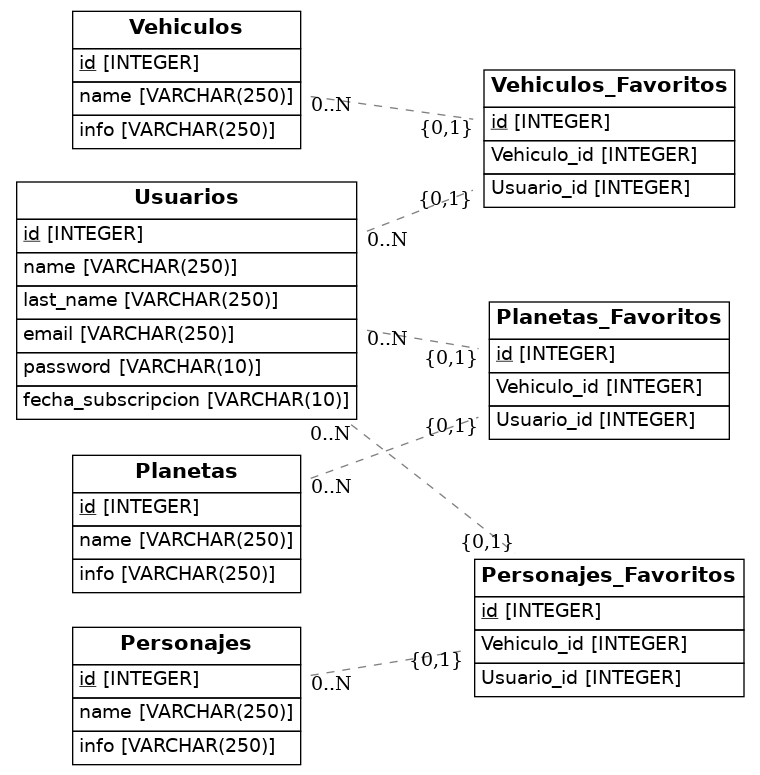
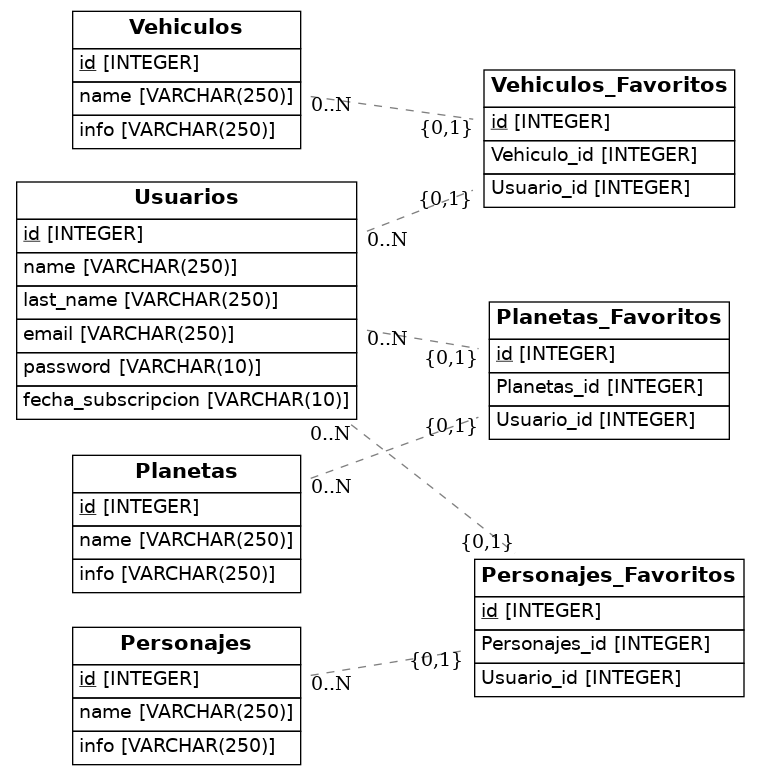
corregido

Changed region(s): [[0.6355, 0.8052, 0.9382, 0.8671], [0.6355, 0.4645, 0.9382, 0.5265]]

diff --git a/src/models.py b/src/models.py
@@ -42,18 +42,24 @@ class Vehiculos_Favoritos(Base):
     id = Column(Integer, primary_key=True)
     Vehiculo_id = Column(Integer, ForeignKey('Vehiculos.id'))
     Usuario_id = Column(Integer, ForeignKey('Usuarios.id'))
+    vehiculo = relationship(Vehiculos)
+    usuario = relationship(Usuarios)
 
 class Planetas_Favoritos(Base):
     __tablename__ = 'Planetas_Favoritos'
     id = Column(Integer, primary_key=True)
-    Vehiculo_id = Column(Integer, ForeignKey('Planetas.id'))
+    Planetas_id = Column(Integer, ForeignKey('Planetas.id'))
     Usuario_id = Column(Integer, ForeignKey('Usuarios.id'))
+    planeta = relationship(Planetas)
+    usuario = relationship(Usuarios)
 
 class Personajes_Favoritos(Base):
     __tablename__ = 'Personajes_Favoritos'
     id = Column(Integer, primary_key=True)
-    Vehiculo_id = Column(Integer, ForeignKey('Personajes.id'))
+    Personajes_id = Column(Integer, ForeignKey('Personajes.id'))
     Usuario_id = Column(Integer, ForeignKey('Usuarios.id'))
+    personaje = relationship(Personajesgit add)
+    usuario = relationship(Usuarios)
 
 
     def to_dict(self):
